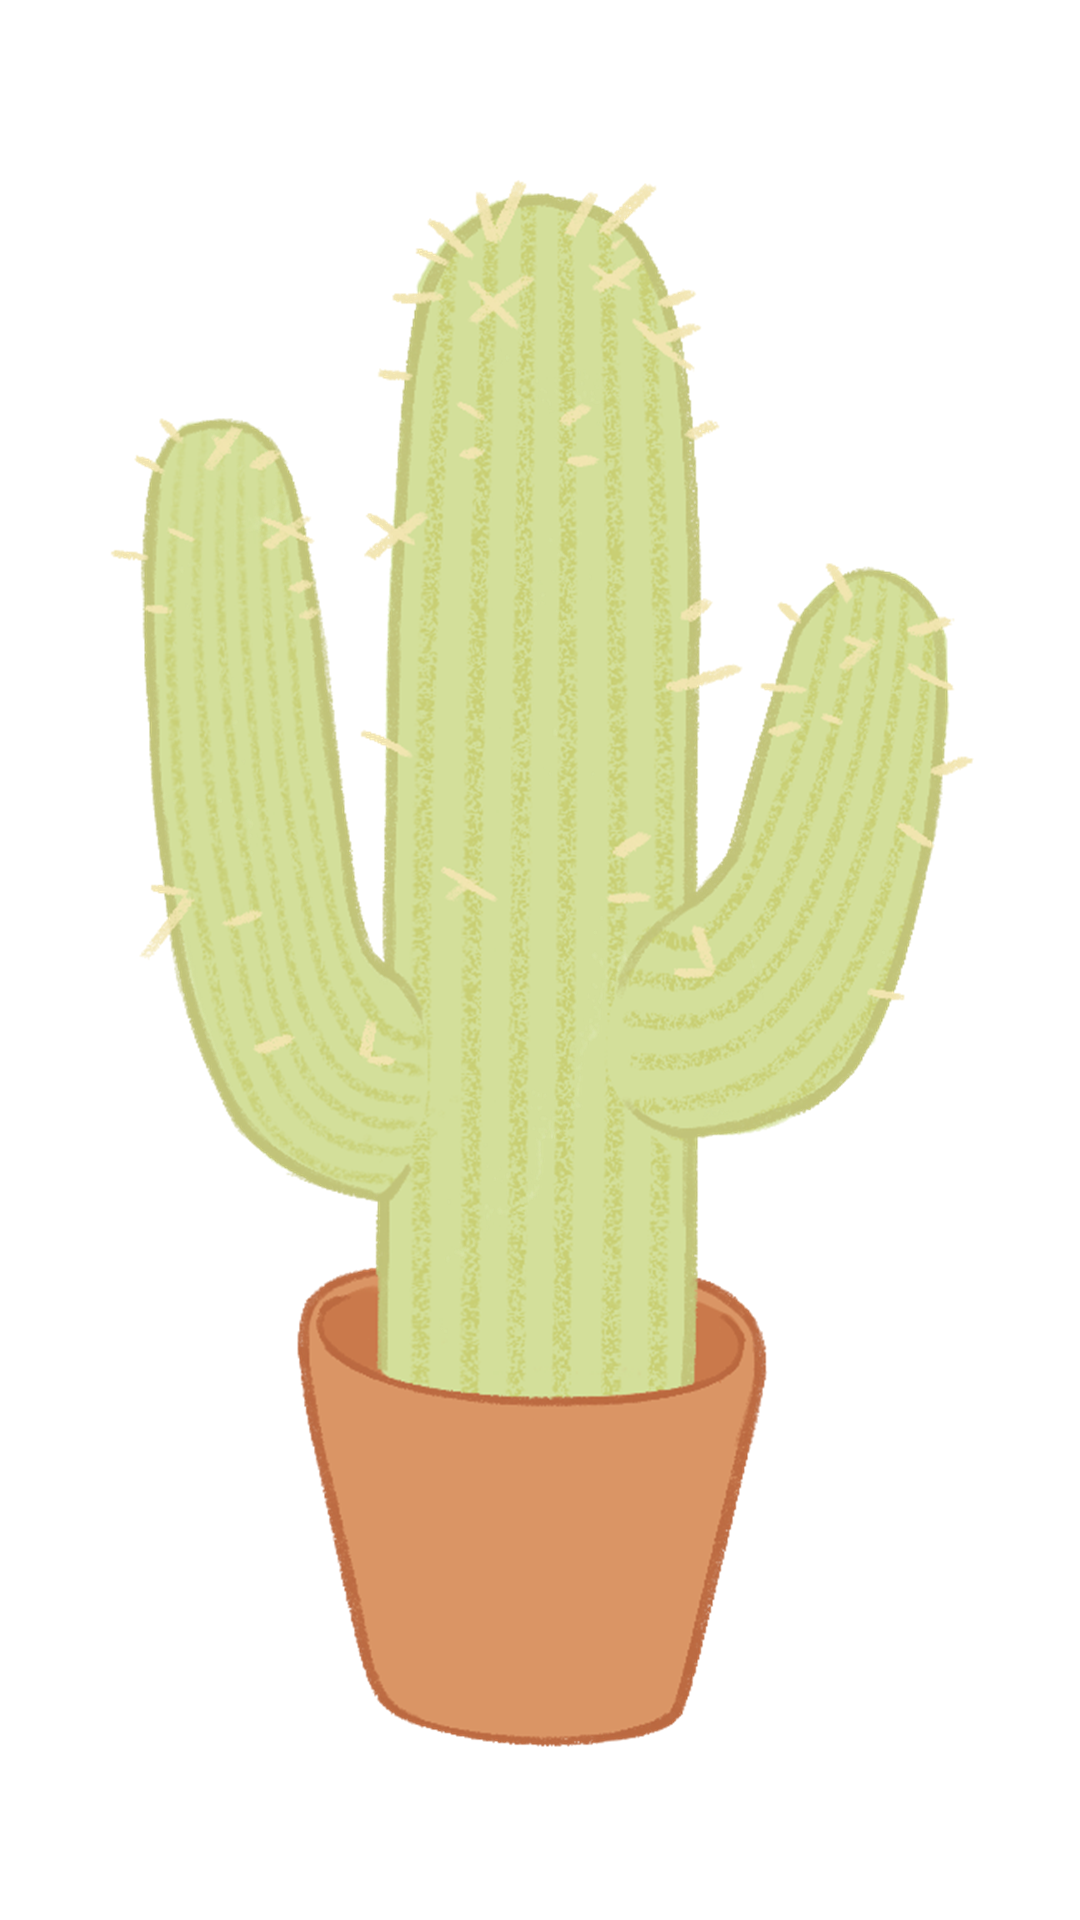
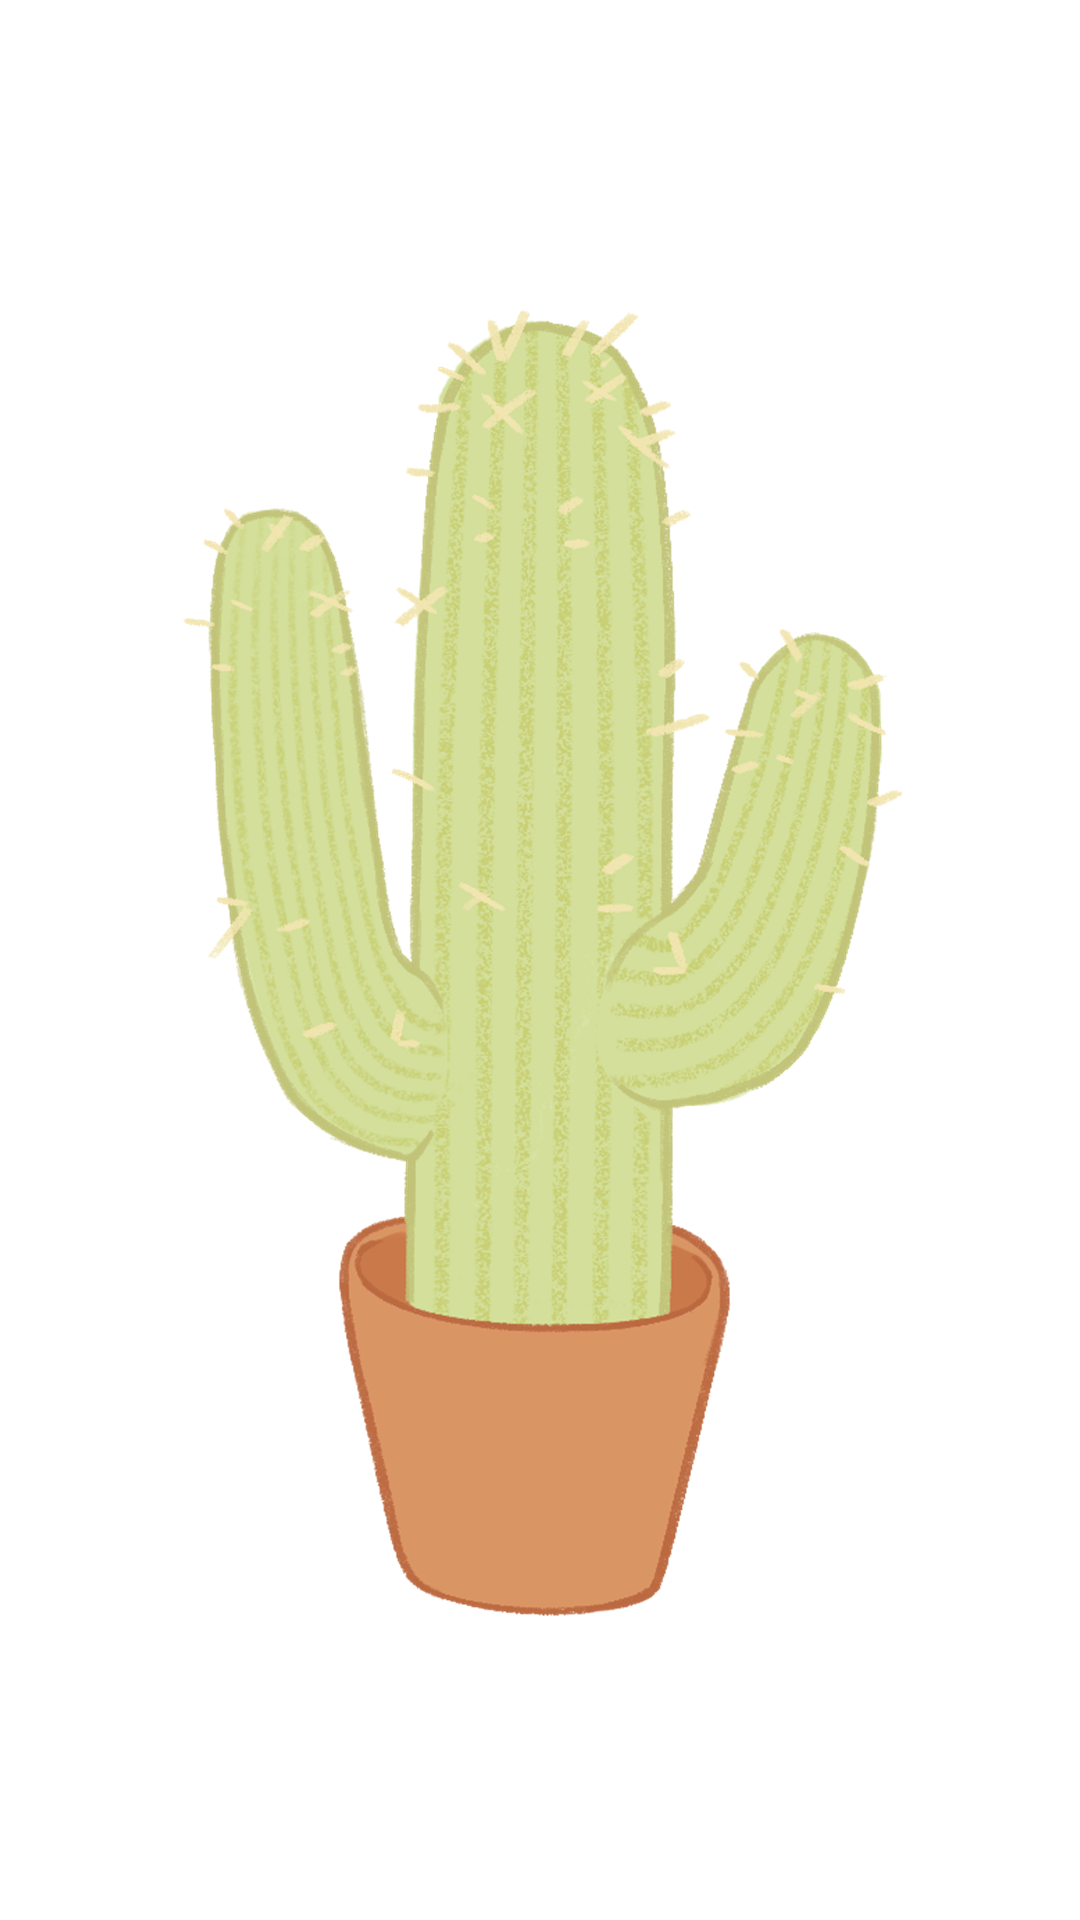
edited still panel size

Changed region(s): [[0.1222, 0.0938, 0.8861, 0.9375], [0.5194, 0.5, 0.55, 0.5312]]

diff --git a/sketch.js b/sketch.js
@@ -25,8 +25,8 @@ const PANEL_ART = [
   '',
   'assets/panel-balloon.png',
   'assets/panel-cat.png',
-  'assets/panel-cactus.png',
-  'assets/panel-person.png'
+  'assets/panel-cactus.png?v=2',
+  'assets/panel-person.png?v=2'
 ];
 
 let myPanel = 0;          // 1..4, claimed from the room after joining
